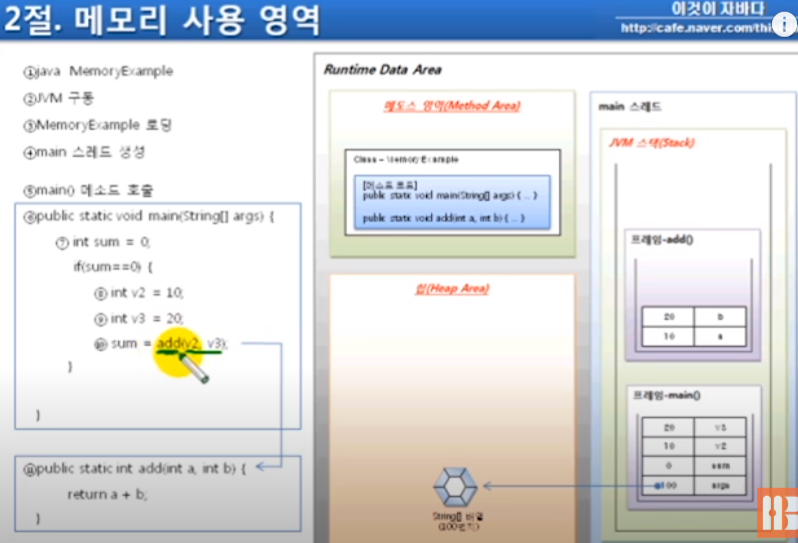
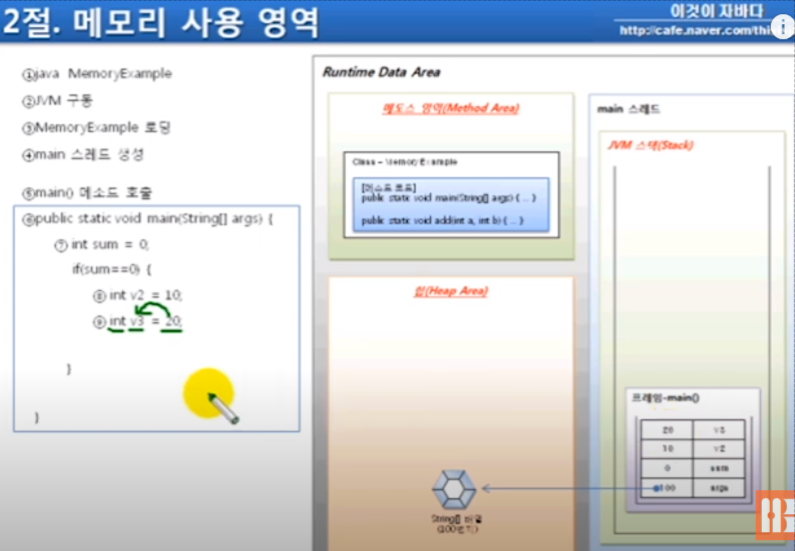
5. image updated

diff --git a/basics/This-is-Java5.md b/basics/This-is-Java5.md
@@ -27,7 +27,18 @@
 - 참조타입: 객체를 참조하는 타입, 직접 값을 가지지 않고, 참조 객체의 번지를 가지고 있음
 - int age = 25, double price = 100.5 에서 25, 100.5는 기본 타입으로, 직접 값이 스택 영역에 저장됨
 - String name = “신용권”, “독서”는 힙 영역에 값을 저장한 객체가 생성되고, 이 번지가 스택 영역 변수에 저장됨 → 메모리 주소(번지)를 가지고 있다가, 필요할 주소로 때 객체를 이용
-- 
+
+## **5.2 메모리 사용 영역**
+
+![Untitled](./images/5(1).png)
+
+- 프로그램을 실행하면, JVM이 구동됨 → JVM이 구동될 때, OS에서 할당받은 메모리 영역을 3가지로 구분
+- 오른쪽 그림 전체가 Runtime Data Area 메모리 영역(자바가 실행될 때, 운영체제에서 받는 메모리 영역)
+- 메소드 영역: 클래스 코드들이 올라감
+- 힙 영역: 프로그램이 실행될 때, 이 객체를 이용해 데이터를 저장하거나, 메소드를 호출
+- JVM 스택:
+    - 메서드를 호출할 때마다 프레임이 생성, 프레임 안에는 변수들이 위치
+    - 프레임이 제거되는 시점: 프레임이 생성된 메서드 호출이 끝나게 되면 자동적으로 없어짐
 
 ### **메모리 사용 영역 실행 순서**
 
@@ -43,7 +54,7 @@ java (exe) MemoryExample
 
 → Runtime Data Area 영역이 만들어지며 메소드 영역, 힙 영역 자동 생성
 
-![Untitled](./images/5(1).png)
+![Untitled](./images/5(2).png)
 
 ### **3) MemoryExample(class)을 메모리에 로딩: 바이트 코드를 로딩**
 
@@ -61,19 +72,19 @@ public static void main(String[] args) {...}
 public static void add(int a, int b) {...}
 ```
 
-![Untitled](./images/5(2).png)
+![Untitled](./images/5(3).png)
 
 ### **4) main 스레드 생성: main 메서드를 실행시키는 코드 흐름**
 
 → main 스레드 생성 동시에 JVM 스택 생성됨
 
-![Untitled](./images/5(3).png)
+![Untitled](./images/5(4).png)
 
 ### **5) main() 메서드 호출**
 
 → JVM 스택에 main 메서드 호출하는 프레임 생성됨
 
-![Untitled](./images/5(4).png)
+![Untitled](./images/5(5).png)
 
 ### **6) main()의 매개변수가 String 배열 값으로 들어옴**
 
@@ -99,7 +110,7 @@ public static void main(String[] args) {
 
 ⇒ 만약, 100번지에 String 배열 객체가 생성되었다면, args에는 100번지라는 주소값이 저장됨
 
-![Untitled](./images/5(5).png)
+![Untitled](./images/5(6).png)
 
 ### **7) int sum = 0; 생성**
 
@@ -119,7 +130,7 @@ public static void main(String[] args) {
 | --- | --- |
 | 100 | args |
 
-![Untitled](./images/5(6).png)
+![Untitled](./images/5(7).png)
 
 ### **8, 9) if 문 검증 후, int v2 = 10; 생성**
 
@@ -143,7 +154,7 @@ public static void main(String[] args) {
 | 0 | sum |
 | 100 | args |
 
-![Untitled](./images/5(7).png)
+![Untitled](./images/5(8).png)
 
 ### **10) add() 메소드 호출**
 
@@ -182,7 +193,7 @@ public static int add(int a, int b) {
 | 0 | sum |
 | 100 | args |
 
-![Untitled](./images/5(8).png)
+![Untitled](./images/5(9).png)
 
 ### **11) 프레임 제거:** 값이 return 되고 모든 실행이 끝나는 시점에서 add() 메서드에 의해 생성된 프레임이 제거됨
 
@@ -201,7 +212,7 @@ public static int add(int a, int b) {
 } //-------(메소드 끝나는 시점)
 ```
 
-![Untitled](./images/5(9).png)
+![Untitled](./images/5(10).png)
 
 ### **12) main() 프레임의 sum 값 변화**
 
@@ -215,7 +226,7 @@ public static int add(int a, int b) {
 | 30 | sum |
 | 100 | args |
 
-![Untitled](./images/5(10).png)
+![Untitled](./images/5(11).png)
 
 ### **13) main() 프레임의 v2, v3 값 제거**
 
@@ -238,7 +249,7 @@ public static void main(String[] args) {
 }
 ```
 
-![Untitled](./images/5(11).png)
+![Untitled](./images/5(12).png)
 
 ### 14) 프로그램 종료
 
@@ -262,23 +273,23 @@ public static void main(String[] args) {
 
 ⇒ 매개변수인 String[] args도 삭제됨
 
-![Untitled](./images/5(12).png)
+![Untitled](./images/5(13).png)
 
 ⇒ main()이 끝나게 되면 main() 프레임이 사라짐
 
-![Untitled](./images/5(13).png)
+![Untitled](./images/5(14).png)
 
 ### **15) JVM이 종료되면서 프로그램도 종료, Runtime Data Area도 없어짐**
 
-![Untitled](./images/5(14).png)
+![Untitled](./images/5(15).png)
 
 ### 더 알아보기
 
-![전체](./images/5(15).png)
+![전체](./images/5(16).png)
 
 전체
 
-![기본 타입 변수](./images/5(16).png)
+![기본 타입 변수](./images/5(17).png)
 
 기본 타입 변수
 
@@ -290,7 +301,7 @@ public static void main(String[] args) {
 3. 스택에 v4 변수 생성, true 값 저장
 - 기본 타입 변수는 직접 값을 가지고 있음
 
-![참조 타입 변수 - 배열](./images/5(17).png)
+![참조 타입 변수 - 배열](./images/5(18).png)
 
 참조 타입 변수 - 배열
 
@@ -299,7 +310,7 @@ public static void main(String[] args) {
 - 힙 영역에 생성된 배열 객체의 번지를 스택의 scores에 저장
 - 번지 참조 변수: 배열 타입 변수는 직접 값을 가지는 것이 아닌, 배열 객체가 생성된 번지를 가짐
 
-![참조 타입 변수 - 문자열](./images/5(18).png)
+![참조 타입 변수 - 문자열](./images/5(19).png)
 
 참조 타입 변수 - 문자열
 
@@ -313,5 +324,5 @@ public static void main(String[] args) {
     ```java
     String name3 = "name";
     ```
-    
+
 ## **5.3 참조 변수의 ==, != 연산**
